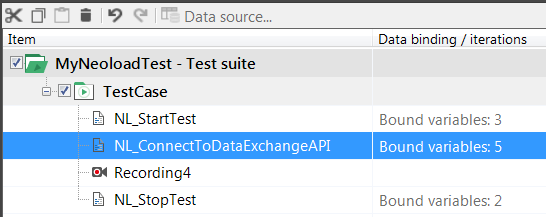
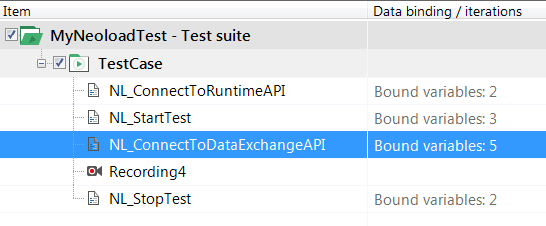
WIP: Documentation/Screenshots

Changed region(s): [[0.0, 0.0, 1.0, 1.0], [0.685, 0.8571, 0.9341, 0.9677]]

diff --git a/README.md b/README.md
@@ -141,15 +141,66 @@ To access these values, go to the NeoLoad **Preferences**, then the **Project se
 
 ## Tutorials
 
+### How to open/create/save/close NeoLoad project
+
+Interaction with the NeoLoad Design API allows you to open/create/save/close NeoLoad project from Ranorex module.
+
+* Insert the module NL_ConnectToDesignAPI into the test case. 
+
+<p align="center"><img src="/screenshots/connecttodesignapi.png" alt="Connect to DesignAPI" /></p>
+
+* To open an existing NeoLoad project, insert module NL_OpenProject into the test case.
+
+<p align="center"><img src="/screenshots/openproject.png" alt="Open project" /></p>
+
+* To create a new NeoLoad project, insert module NL_CreateProject into the test case.
+
+<p align="center"><img src="/screenshots/createproject.png" alt="Create project" /></p>
+
+* To save a NeoLoad project, insert module NL_SaveProject into the test case.
+
+<p align="center"><img src="/screenshots/saveproject.png" alt="Save project" /></p>
+
+* To close a NeoLoad project, insert module NL_CloseProject into the test case.
+
+<p align="center"><img src="/screenshots/closeproject.png" alt="Close project" /></p>
+
 ### How to record a Ranorex script into a NeoLoad User Path
 
-### How to update an existing NeoLoad User Path from a Ranorex script
+Interaction with the NeoLoad Design API allows you to record/update a Ranorex script into NeoLoad.
 
-### How to open/create/save/close NeoLoad project
+* Insert the module NL_ConnectToDesignAPI into the test case.
+* Insert the module NL_StartRecording into the test case, before the recording.
+* Insert the module NL_StopRecording into the test case, after the recording.  
+
+<p align="center"><img src="/screenshots/startstoprecording.png" alt="Start stop recording" /></p>
+
+During the execution of the Ranorex test case, if the NeoLoad User Path does not exist, it will be created. Otherwise, the existing User Path will be updated. 
 
 ### How to start/stop a NeoLoad test
 
-### How to start/stop User Path to a running NeoLoad test
+Interaction with the NeoLoad Runtime API allows you to start/stop a NeoLoad test.
+
+* Insert the module NL_ConnectToRuntimeAPI into the test case.
+* Insert the module NL_StartTest into the test case.
+* Insert the module NL_StopTest into the test case.  
+
+<p align="center"><img src="/screenshots/startstoptest.png" alt="Start stop test" /></p>
+
+### How to add/stop Virtual Users to a running NeoLoad test
+
+Interaction with the NeoLoad Runtime API allows you to add/stop Virtual Users during a NeoLoad test.
+
+* Insert the module NL_ConnectToRuntimeAPI into the test case.
+<p align="center"><img src="/screenshots/connecttoruntimeapi.png" alt="Connect to Runtime API" /></p>
+
+* To add Virtual Users, insert the module NL_AddVirtualUsers into the test case.
+
+<p align="center"><img src="/screenshots/addvirtualusers.png" alt="Add Virtual Users" /></p>
+
+* To stop Virtual Users, insert the module NL_StopVirtualUsers into the test case.
+
+<p align="center"><img src="/screenshots/stopvirtualusers.png" alt="Stop Virtual Users" /></p>
 
 ### How to send End User Experience measurement to NeoLoad
 
@@ -159,7 +210,7 @@ The Ranorex **SendTimingValues** User Code allows you yo send End User Experienc
 
 To use that user code: 
 
-* Right click on the Ranorex recording file, and select **Add new action**, **User code**, **Select from library**.
+* Right click on the Ranorex recording file, and select **Add new action**, then **User code**, and then **Select from library**.
 
 <p align="center"><img src="/screenshots/selectfromlibrary.png" alt="Select from library" /></p>
 
@@ -171,7 +222,7 @@ To use that user code:
 
 <p align="center"><img src="/screenshots/sendtimingvalues.png" alt="Send timing values" /></p> 
 
-* Insert the module NL_ConnectToDataExchangeAPI inside the test case. Make sure to insert this module after the test is started, and before executing any **SendTimingValues** code.
+* Insert the module NL_ConnectToDataExchangeAPI inside the test case. Make sure to insert this module after the test is started, and before executing the **SendTimingValues** code.
 
 <p align="center"><img src="/screenshots/connecttodataexchangeapi.png" alt="Connect to DataExchangeAPI" /></p>
 
